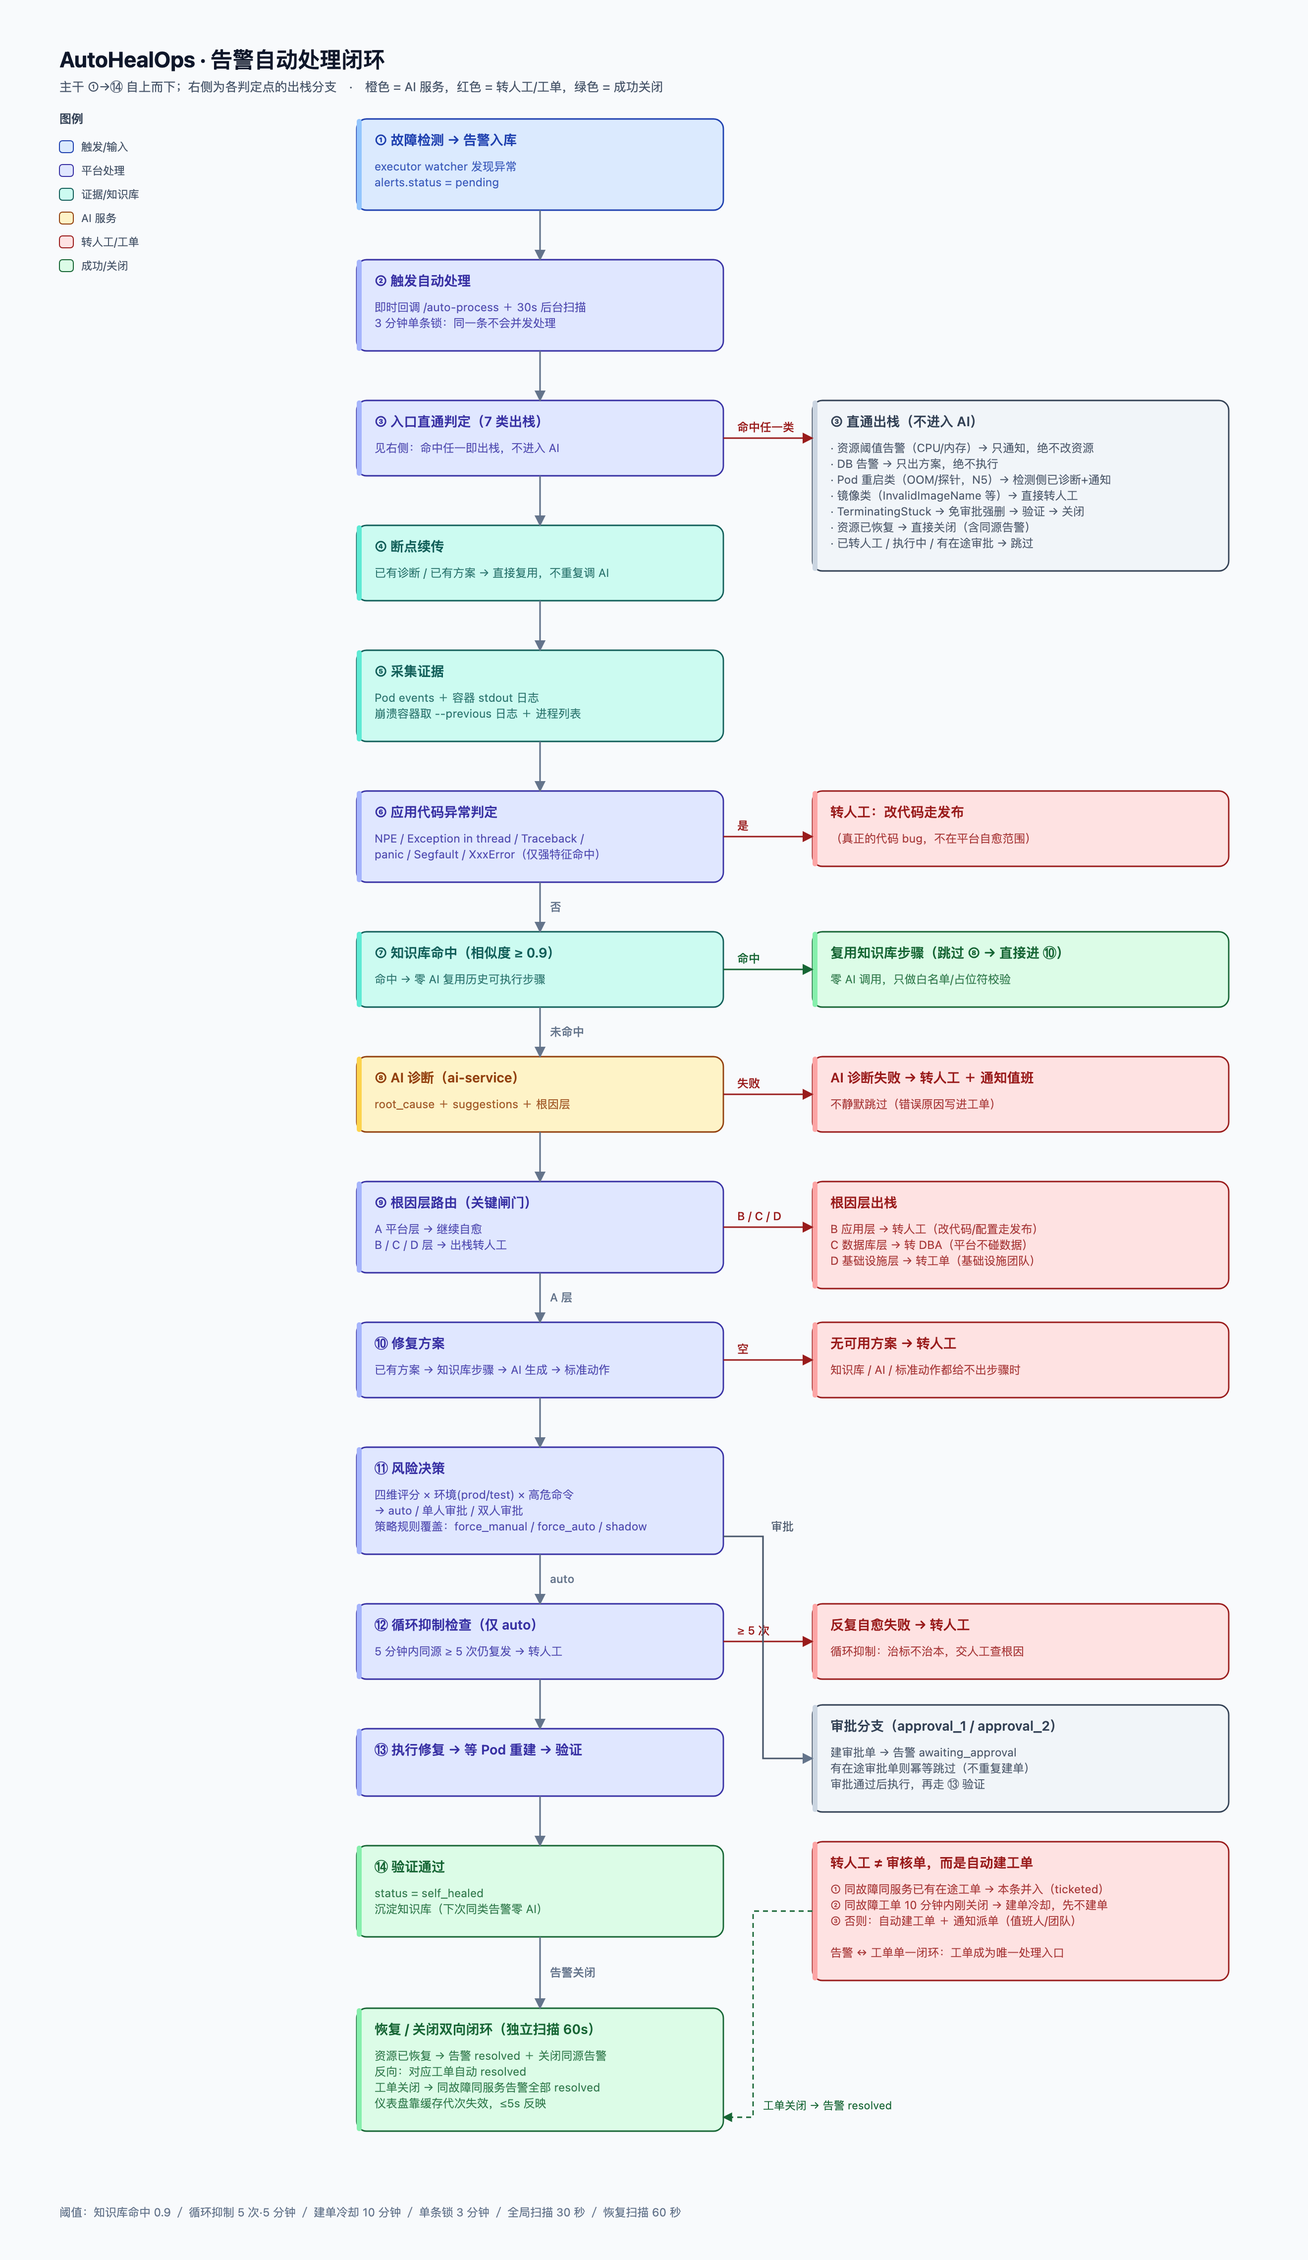
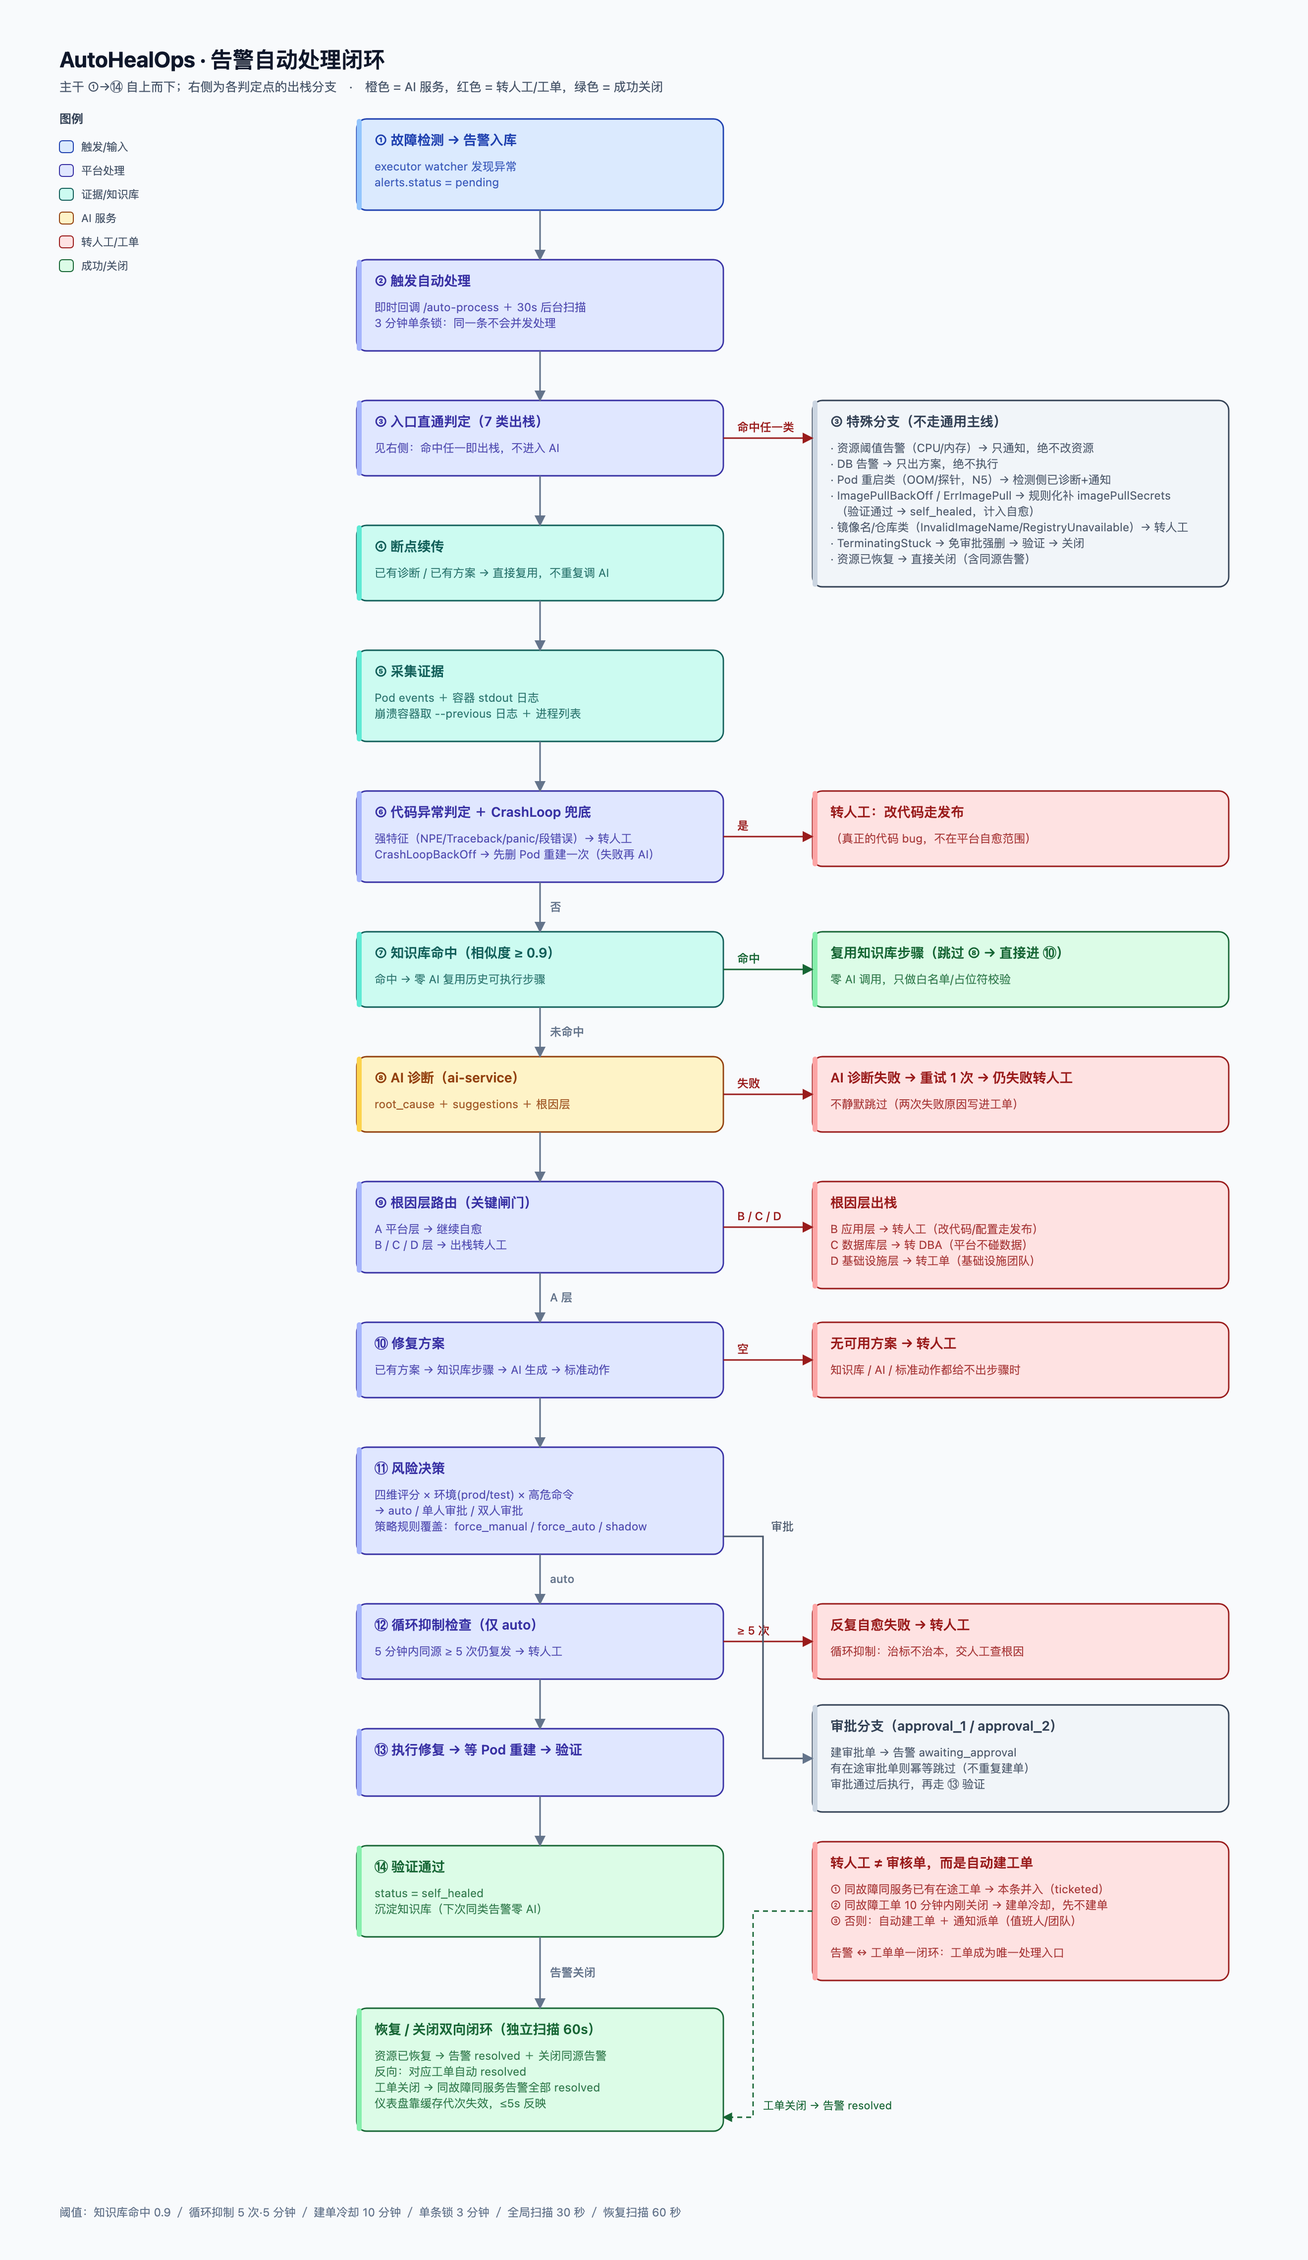
feat(自愈): 落地老板选的 1/3/4 三条——CrashLoop 先重建一次、镜像修复计入自愈、AI 诊断失败重试
1) CrashLoopBackOff 先试一次「删 Pod 重建」（在 AI 判断之前）
   - 强代码特征（NPE/Traceback/panic/段错误）仍直接转人工，不做无意义重建
   - 其余 CrashLoop：生成标准 delete pod 方案 → 落 repair_plans → 执行 → 验证（180s）
     成功 → self_healed + 方案 completed；失败 → message 打「已尝试自动重建一次」，
     继续走 AI 诊断链路（不会重复重建，避免与循环抑制叠加）
   - 资源名/命名空间严格正则校验，防命令注入（已有校验，补测试）

3) 镜像类修复结果计入自愈
   - _repair_image_pull 全程持有「修复中」标记，恢复扫描不再抢跑按 resolved 关闭，
     验证通过就能真实落到 self_healed（之前会被 60s 恢复扫描先关掉）

4) AI 诊断失败自动重试 1 次（间隔 2s），两次都失败才转人工 + 通知

附带：新增 Redis「修复中」标记（alert:repairing:{id}，TTL 10min），恢复扫描同时跳过
plan=executing 与修复中告警；单测补 CrashLoop 重建命令/注入防护/只试一次标记（共 8 项）。

流程图已同步更新（docs/alert-flow.html / .png）。CI 全绿，服务已重启。

Changed region(s): [[0.6212, 0.218, 0.8386, 0.2491], [0.2795, 0.3425, 0.4659, 0.3737], [0.6833, 0.4671, 0.8076, 0.4982]]

diff --git a/docs/alert-flow.html b/docs/alert-flow.html
@@ -58,9 +58,9 @@
 <text x="358" y="700" font-size="11.5" fill="#115e59" opacity="0.85">崩溃容器取 --previous 日志 ＋ 进程列表</text>
 <rect x="340" y="774" width="370" height="92" rx="10" fill="#e0e7ff" stroke="#3730a3" stroke-width="1.4"/>
 <rect x="340" y="774" width="5" height="92" rx="2.5" fill="#a5b4fc"/>
-<text x="358" y="800" font-size="13.5" font-weight="600" fill="#3730a3">⑥ 应用代码异常判定</text>
-<text x="358" y="826" font-size="11.5" fill="#3730a3" opacity="0.85">NPE / Exception in thread / Traceback /</text>
-<text x="358" y="842" font-size="11.5" fill="#3730a3" opacity="0.85">panic / Segfault / XxxError（仅强特征命中）</text>
+<text x="358" y="800" font-size="13.5" font-weight="600" fill="#3730a3">⑥ 代码异常判定 ＋ CrashLoop 兜底</text>
+<text x="358" y="826" font-size="11.5" fill="#3730a3" opacity="0.85">强特征（NPE/Traceback/panic/段错误）→ 转人工</text>
+<text x="358" y="842" font-size="11.5" fill="#3730a3" opacity="0.85">CrashLoopBackOff → 先删 Pod 重建一次（失败再 AI）</text>
 <rect x="340" y="916" width="370" height="76" rx="10" fill="#ccfbf1" stroke="#115e59" stroke-width="1.4"/>
 <rect x="340" y="916" width="5" height="76" rx="2.5" fill="#5eead4"/>
 <text x="358" y="942" font-size="13.5" font-weight="600" fill="#115e59">⑦ 知识库命中（相似度 ≥ 0.9）</text>
@@ -103,16 +103,17 @@
 <text x="358" y="2070" font-size="11.5" fill="#166534" opacity="0.85">反向：对应工单自动 resolved</text>
 <text x="358" y="2086" font-size="11.5" fill="#166534" opacity="0.85">工单关闭 → 同故障同服务告警全部 resolved</text>
 <text x="358" y="2102" font-size="11.5" fill="#166534" opacity="0.85">仪表盘靠缓存代次失效，≤5s 反映</text>
-<rect x="800" y="380" width="420" height="172" rx="10" fill="#f1f5f9" stroke="#334155" stroke-width="1.4"/>
-<rect x="800" y="380" width="5" height="172" rx="2.5" fill="#cbd5e1"/>
-<text x="818" y="406" font-size="13.5" font-weight="600" fill="#334155">③ 直通出栈（不进入 AI）</text>
+<rect x="800" y="380" width="420" height="188" rx="10" fill="#f1f5f9" stroke="#334155" stroke-width="1.4"/>
+<rect x="800" y="380" width="5" height="188" rx="2.5" fill="#cbd5e1"/>
+<text x="818" y="406" font-size="13.5" font-weight="600" fill="#334155">③ 特殊分支（不走通用主线）</text>
 <text x="818" y="432" font-size="11.5" fill="#334155" opacity="0.85">· 资源阈值告警（CPU/内存）→ 只通知，绝不改资源</text>
 <text x="818" y="448" font-size="11.5" fill="#334155" opacity="0.85">· DB 告警 → 只出方案，绝不执行</text>
 <text x="818" y="464" font-size="11.5" fill="#334155" opacity="0.85">· Pod 重启类（OOM/探针，N5）→ 检测侧已诊断+通知</text>
-<text x="818" y="480" font-size="11.5" fill="#334155" opacity="0.85">· 镜像类（InvalidImageName 等）→ 直接转人工</text>
-<text x="818" y="496" font-size="11.5" fill="#334155" opacity="0.85">· TerminatingStuck → 免审批强删 → 验证 → 关闭</text>
-<text x="818" y="512" font-size="11.5" fill="#334155" opacity="0.85">· 资源已恢复 → 直接关闭（含同源告警）</text>
-<text x="818" y="528" font-size="11.5" fill="#334155" opacity="0.85">· 已转人工 / 执行中 / 有在途审批 → 跳过</text>
+<text x="818" y="480" font-size="11.5" fill="#334155" opacity="0.85">· ImagePullBackOff / ErrImagePull → 规则化补 imagePullSecrets</text>
+<text x="818" y="496" font-size="11.5" fill="#334155" opacity="0.85">　（验证通过 → self_healed，计入自愈）</text>
+<text x="818" y="512" font-size="11.5" fill="#334155" opacity="0.85">· 镜像名/仓库类（InvalidImageName/RegistryUnavailable）→ 转人工</text>
+<text x="818" y="528" font-size="11.5" fill="#334155" opacity="0.85">· TerminatingStuck → 免审批强删 → 验证 → 关闭</text>
+<text x="818" y="544" font-size="11.5" fill="#334155" opacity="0.85">· 资源已恢复 → 直接关闭（含同源告警）</text>
 <rect x="800" y="774" width="420" height="76" rx="10" fill="#fee2e2" stroke="#991b1b" stroke-width="1.4"/>
 <rect x="800" y="774" width="5" height="76" rx="2.5" fill="#fca5a5"/>
 <text x="818" y="800" font-size="13.5" font-weight="600" fill="#991b1b">转人工：改代码走发布</text>
@@ -123,8 +124,8 @@
 <text x="818" y="968" font-size="11.5" fill="#166534" opacity="0.85">零 AI 调用，只做白名单/占位符校验</text>
 <rect x="800" y="1042" width="420" height="76" rx="10" fill="#fee2e2" stroke="#991b1b" stroke-width="1.4"/>
 <rect x="800" y="1042" width="5" height="76" rx="2.5" fill="#fca5a5"/>
-<text x="818" y="1068" font-size="13.5" font-weight="600" fill="#991b1b">AI 诊断失败 → 转人工 ＋ 通知值班</text>
-<text x="818" y="1094" font-size="11.5" fill="#991b1b" opacity="0.85">不静默跳过（错误原因写进工单）</text>
+<text x="818" y="1068" font-size="13.5" font-weight="600" fill="#991b1b">AI 诊断失败 → 重试 1 次 → 仍失败转人工</text>
+<text x="818" y="1094" font-size="11.5" fill="#991b1b" opacity="0.85">不静默跳过（两次失败原因写进工单）</text>
 <rect x="800" y="1168" width="420" height="108" rx="10" fill="#fee2e2" stroke="#991b1b" stroke-width="1.4"/>
 <rect x="800" y="1168" width="5" height="108" rx="2.5" fill="#fca5a5"/>
 <text x="818" y="1194" font-size="13.5" font-weight="600" fill="#991b1b">根因层出栈</text>

diff --git a/api-server/app/services/alert_auto_service.py b/api-server/app/services/alert_auto_service.py
@@ -388,6 +388,34 @@ async def _mark_manual_and_notify(alert: Alert, reason: str, detail: str = "") -
         await session.commit()
 
 
+# ---- 「修复进行中」标记（2026-10-21）----
+# 作用：修复/验证期间让恢复扫描别把告警按 resolved 关掉，否则自愈结果永远落不到 self_healed。
+REPAIR_MARK_TTL = 600  # 10 分钟
+
+
+async def _begin_repair(alert_id: int) -> bool:
+    """抢占「该告警正在修复」标记；已被别的流程占用返回 False"""
+    try:
+        return bool(await redis_pool.set(f"alert:repairing:{alert_id}", "1", ex=REPAIR_MARK_TTL, nx=True))
+    except Exception as e:  # noqa: BLE001
+        logger.debug("修复标记写入失败（忽略）: %s", e)
+        return True
+
+
+async def _end_repair(alert_id: int) -> None:
+    try:
+        await redis_pool.delete(f"alert:repairing:{alert_id}")
+    except Exception:  # noqa: BLE001
+        pass
+
+
+async def _is_repairing(alert_id: int) -> bool:
+    try:
+        return bool(await redis_pool.get(f"alert:repairing:{alert_id}"))
+    except Exception:  # noqa: BLE001
+        return False
+
+
 async def _set_plan_status(plan_id: int, status: str) -> None:
     """更新方案状态（自动执行路径用）"""
     if not plan_id:
@@ -461,6 +489,71 @@ async def _verify_auto_repair(alert: Alert, max_wait_seconds: int = AUTO_VERIFY_
         waited += 10
     # 超时后最后再查一次
     return await check_pod_recovered(alert.cluster_id, alert.namespace, alert.resource_name)
+
+
+REBUILD_TRIED_MARK = "（已尝试自动重建一次）"
+
+
+def _has_tried_rebuild(alert: Alert) -> bool:
+    return REBUILD_TRIED_MARK in (alert.message or "")
+
+
+async def _try_rebuild_once(alert: Alert, trace_id: str) -> bool:
+    """CrashLoopBackOff 先删 Pod 重建一次（老板 2026-10-21 口径）
+
+    返回 True = 已终局处理（自愈成功）；False = 没恢复/无法执行，交给后续 AI 诊断链路。
+    只尝试一次（告警 message 打标 + Redis 修复标记），避免与 AI 方案/循环抑制重复删 Pod。
+    """
+    from app.models import RepairPlan
+
+    steps = build_standard_steps(alert)
+    if not steps:
+        return False
+    if not await _begin_repair(alert.id):
+        return False  # 别的流程正在修这条告警
+    plan_id = 0
+    try:
+        plan_json = json.dumps({"steps": steps}, ensure_ascii=False)
+        async with async_session() as session:
+            plan = RepairPlan(alert_id=alert.id, diagnosis_id=None, plan_json=plan_json,
+                              operation_types="DELETE", risk_level="medium", status="executing")
+            session.add(plan)
+            await session.commit()
+            await session.refresh(plan)
+            plan_id = plan.id
+        exec_result = await _execute_auto_plan(alert, plan_id, plan_json, trace_id)
+        repaired = await _verify_auto_repair(alert)
+        now = datetime.now().strftime("%Y-%m-%d %H:%M:%S")
+        async with async_session() as session:
+            a = await session.get(Alert, alert.id)
+            if a:
+                if repaired:
+                    a.status = "self_healed"
+                    a.resolved_at = now
+                    a.message = (a.message or "") + "（自愈：删 Pod 重建，验证通过）"
+                else:
+                    a.message = (a.message or "") + REBUILD_TRIED_MARK + "，重建后仍未恢复，转 AI 诊断"
+                await session.commit()
+        if repaired:
+            await _set_plan_status(plan_id, "completed")
+            logger.info("告警 %d CrashLoop 首次重建自愈成功", alert.id)
+            return True
+        await _set_plan_status(plan_id, "failed" if exec_result == "failed" else "pending")
+        logger.info("告警 %d CrashLoop 首次重建未恢复（exec=%s），继续 AI 诊断", alert.id, exec_result)
+        return False
+    except Exception as e:  # noqa: BLE001
+        logger.warning("告警 %d CrashLoop 重建尝试异常: %s", alert.id, e)
+        try:
+            async with async_session() as session:
+                a = await session.get(Alert, alert.id)
+                if a and REBUILD_TRIED_MARK not in (a.message or ""):
+                    a.message = (a.message or "") + REBUILD_TRIED_MARK + "（执行异常）"
+                    await session.commit()
+        except Exception:  # noqa: BLE001
+            pass
+        return False
+    finally:
+        await _end_repair(alert.id)
 
 
 async def _collect_pod_events(alert: Alert) -> str:
@@ -648,6 +741,15 @@ async def _repair_image_pull_alert(alert: Alert, trace_id: str) -> None:
         logger.info("告警 %d 镜像修复触发循环抑制，转人工", alert.id)
         return
 
+    if not await _begin_repair(alert.id):
+        return  # 已有流程在修这条告警
+    try:
+        await _repair_image_pull_inner(alert, trace_id)
+    finally:
+        await _end_repair(alert.id)
+
+
+async def _repair_image_pull_inner(alert: Alert, trace_id: str) -> None:
     result = await executor_client.acall(executor_client.repair_image_pull, alert.cluster_id, alert.namespace, alert.resource_name, trace_id)
     fixed = result.get("fixed", False)
     msg = result.get("message", "")
@@ -1052,9 +1154,28 @@ async def _process_one(alert: Alert) -> bool:
                 )
                 logger.info("告警 %d 识别为应用代码问题（命中特征 %r），跳过 AI 诊断，转人工", alert.id, crash_hit)
                 return True
-            diagnosis = await ai_client.diagnose(
-                alert.id, alert_data, {"exec_output": container_diag}, trace_id
-            )
+            # CrashLoopBackOff：先试一次「删 Pod 重建」（很多是依赖抖动/偶发，重建即恢复），
+            # 失败再往下走 AI 诊断/转人工（老板 2026-10-21 口径）
+            if alert.fault_type == "CrashLoopBackOff" and not _has_tried_rebuild(alert):
+                if await _try_rebuild_once(alert, trace_id):
+                    return True
+
+            # AI 诊断失败自动重试 1 次（老板 2026-10-21 口径），两次都失败才转人工
+            diagnosis = None
+            _diag_err = None
+            for _attempt in (1, 2):
+                try:
+                    diagnosis = await ai_client.diagnose(
+                        alert.id, alert_data, {"exec_output": container_diag}, trace_id
+                    )
+                    break
+                except Exception as e:  # noqa: BLE001
+                    _diag_err = e
+                    logger.warning("告警 %d AI 诊断失败（第 %d/2 次）: %s", alert.id, _attempt, e)
+                    if _attempt == 1:
+                        await asyncio.sleep(2)
+            if diagnosis is None:
+                raise _diag_err  # 交给外层 except → 转人工 + 通知
             root_cause = diagnosis.get("root_cause", "")
             repair_steps_text = "; ".join(diagnosis.get("suggestions", []))
             root_cause_layer = diagnosis.get("root_cause_layer", "")
@@ -1275,8 +1396,8 @@ async def sweep_recovered_alerts(limit: int = 50) -> int:
         try:
             if not alert.resource_name:
                 continue
-            if alert.id in executing_ids:
-                logger.info("恢复收敛：告警 %d 正在自动执行修复，本轮跳过（等验证结果）", alert.id)
+            if alert.id in executing_ids or await _is_repairing(alert.id):
+                logger.info("恢复收敛：告警 %d 正在修复中，本轮跳过（等验证结果自行落 self_healed）", alert.id)
                 continue
             if not await check_pod_recovered(alert.cluster_id, alert.namespace or "", alert.resource_name):
                 continue

diff --git a/api-server/tests/test_app_crash_patterns.py b/api-server/tests/test_app_crash_patterns.py
@@ -63,3 +63,37 @@ class TestAppCrashDetection(unittest.TestCase):
 
 if __name__ == "__main__":
     unittest.main()
+
+
+class TestCrashLoopRebuild(unittest.TestCase):
+    """CrashLoop 先重建一次（2026-10-21 老板口径）的边界：命令生成 + 只试一次标记"""
+
+    def _alert(self, ft="CrashLoopBackOff", name="web-6d8f9-abcde", ns="qa-demo", msg=""):
+        class A:
+            pass
+        a = A()
+        a.fault_type = ft
+        a.resource_name = name
+        a.namespace = ns
+        a.message = msg
+        return a
+
+    def test_standard_steps_delete_pod(self):
+        from app.services.alert_auto_service import build_standard_steps
+        steps = build_standard_steps(self._alert())
+        self.assertEqual(len(steps), 1)
+        self.assertEqual(steps[0]["command"], "kubectl delete pod web-6d8f9-abcde -n qa-demo")
+
+    def test_illegal_name_refused(self):
+        from app.services.alert_auto_service import build_standard_steps
+        steps = build_standard_steps(self._alert(name="web; rm -rf /"))
+        self.assertEqual(steps, [])
+
+    def test_tried_marker(self):
+        from app.services.alert_auto_service import _has_tried_rebuild, REBUILD_TRIED_MARK
+        self.assertFalse(_has_tried_rebuild(self._alert()))
+        self.assertTrue(_has_tried_rebuild(self._alert(msg="x" + REBUILD_TRIED_MARK)))
+
+
+if __name__ == "__main__":
+    unittest.main()
